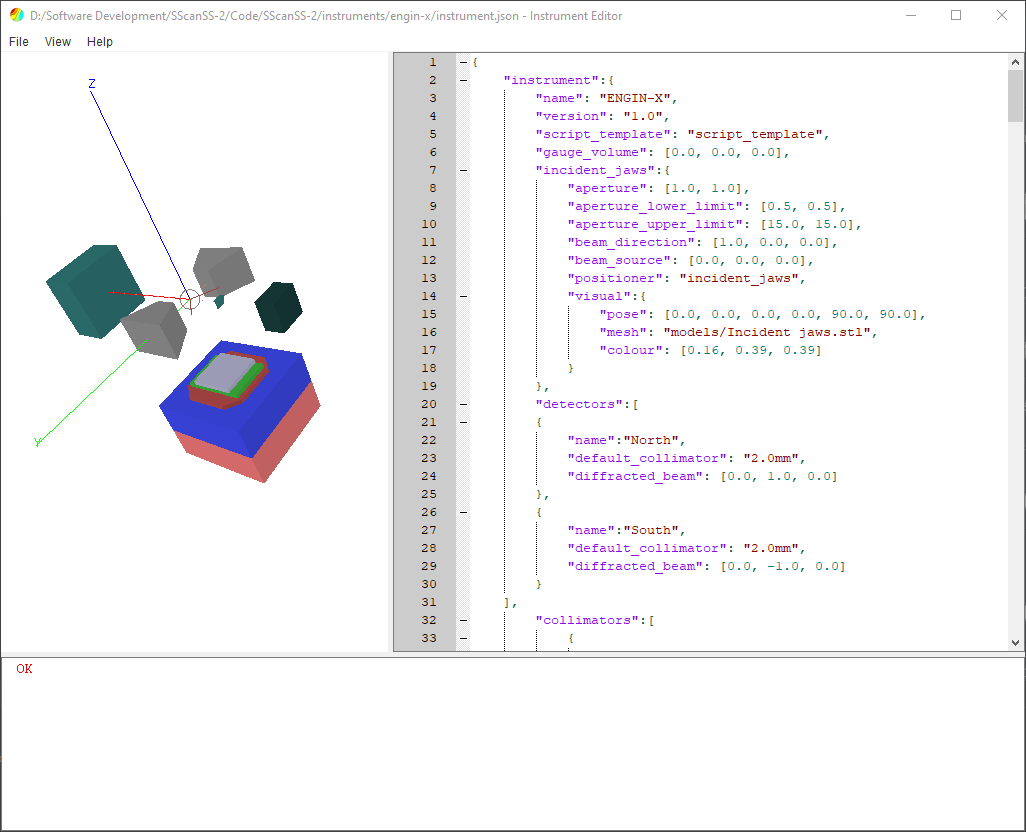
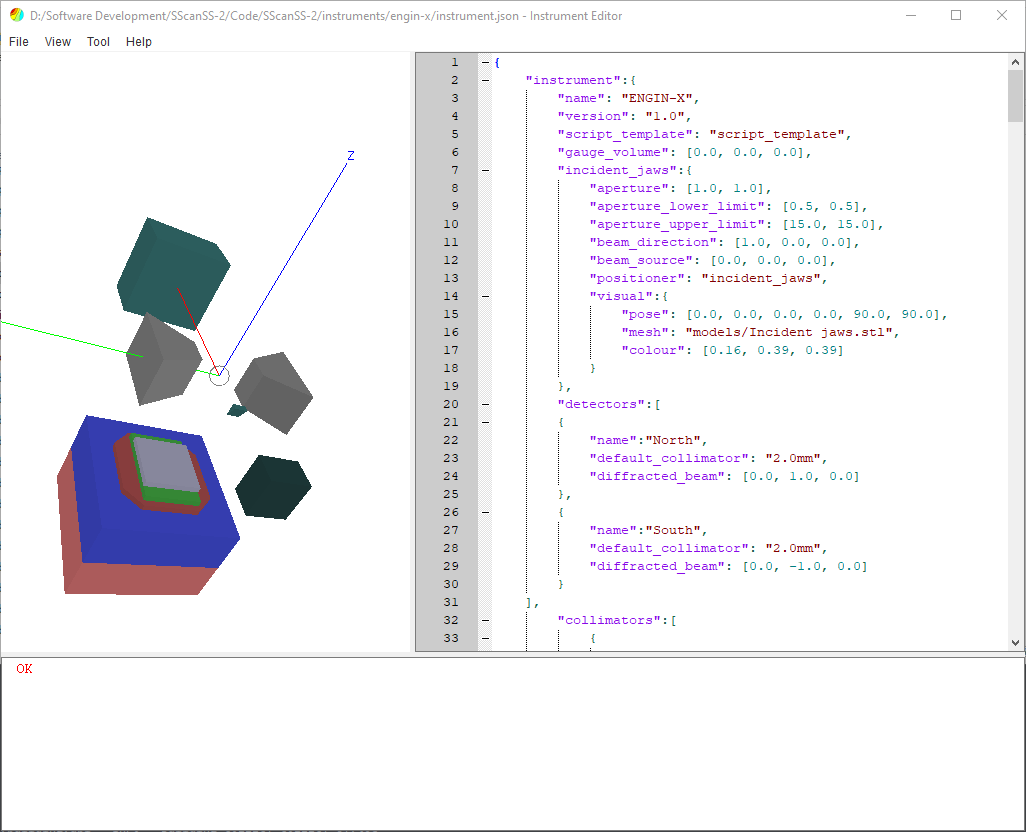
Adds DOI and updates version to 1.1.0, adds bugfix and updates docs

diff --git a/build_executable.py b/build_executable.py
@@ -52,7 +52,7 @@ def build_editor():
                 '--windowed', '--noconfirm', '--distpath', dist_path, '--clean', main_path]
 
     pyi_args.extend(['--exclude-module', 'coverage', '--exclude-module', 'jedi', '--exclude-module', 'tkinter',
-                     '--exclude-module', 'IPython', '--exclude-module', 'lib2to3', '--exclude-module', 'scipy',
+                     '--exclude-module', 'IPython', '--exclude-module', 'lib2to3',
                      '--exclude-module', 'PyQt5.QtDBus', '--exclude-module', 'PyQt5.QtDesigner',
                      '--exclude-module', 'matplotlib', '--exclude-module', 'hdf5',
                      '--exclude-module', 'PyQt5.QtBluetooth', '--exclude-module', 'PyQt5.QtNetwork',
@@ -71,6 +71,7 @@ def build_editor():
                      '--exclude-module', 'PyQt5.QtSql', '--exclude-module', 'PyQt5.QtSvg',
                      '--exclude-module', 'PyQt5.QtSerialPort', '--exclude-module', 'PyQt5.QtNetwork',
                      '--exclude-module', 'PyQt5.QtScript', '--exclude-module', 'PyQt5.QtXmlPatterns',
+                     '--hidden-import', 'scipy.spatial', '--hidden-import', 'scipy.optimize',
                      '--hidden-import', 'pkg_resources.py2_warn', '--hidden-import', 'PyQt5.QtPrintSupport',
                      '--hidden-import', 'PyQt5.QtOpenGL'])
 
@@ -109,7 +110,8 @@ def build_sscanss():
                      '--exclude-module', 'PyQt5.QtNetwork', '--exclude-module', 'PyQt5.QtPrintSupport',
                      '--exclude-module', 'PyQt5.QtScript', '--exclude-module', 'PyQt5.QtXmlPatterns',
                      '--hidden-import', 'scipy.spatial', '--hidden-import', 'scipy.optimize',
-                     '--hidden-import', 'pkg_resources.py2_warn', '--hidden-import', 'PyQt5.QtOpenGL'])
+                     '--hidden-import', 'pkg_resources.py2_warn', '--hidden-import', 'PyQt5.QtOpenGL',
+                     '--exclude-module', 'PyQt5.QtWinExtras'])
 
     if is_win:
         pyi_args.extend(['--icon',  os.path.join(INSTALLER_PATH, 'icons', 'logo.ico')])

diff --git a/tests/test_editor.py b/tests/test_editor.py
@@ -5,7 +5,6 @@ import numpy as np
 from PyQt5.QtWidgets import QApplication, QLineEdit, QComboBox, QDoubleSpinBox
 from sscanss.core.instrument.instrument import Instrument, PositioningStack, Detector, Script, Jaws
 from sscanss.core.instrument.robotics import Link, SerialManipulator
-from sscanss.core.scene import SceneManager
 from sscanss.editor.main import Window
 from sscanss.editor.widgets import PositionerWidget, JawsWidget, ScriptWidget, DetectorWidget
 from sscanss.editor.dialogs import CalibrationWidget, Controls
@@ -18,7 +17,8 @@ Collimator = namedtuple('Collimator', ['name'])
 class TestEditor(unittest.TestCase):
     app = QApplication([])
 
-    def setUp(self):
+    @mock.patch('sscanss.editor.main.SceneManager', autospec=True)
+    def setUp(self, scene_mock):
         self.view = Window()
         self.view.animate_instrument = TestSignal()
         self.view.filename = ''
@@ -37,8 +37,6 @@ class TestEditor(unittest.TestCase):
         self.view.instrument.jaws = Jaws('', [0, 0, 0], [1, 0, 0], [1.0, 1.0], [0.5, 0.5], [4.0, 4.0], None)
         self.view.instrument.detectors = {'East': Detector('East', [1, 0, 0])}
         self.view.instrument.script = Script('{{header}}\n{{#script}}\n{{position}}    {{mu_amps}}\n{{/script}}')
-
-        self.view.manager = mock.create_autospec(SceneManager)
 
     def testPositionerWidget(self):
         widget = PositionerWidget(self.view)

diff --git a/sscanss/app/dialogs/misc.py b/sscanss/app/dialogs/misc.py
@@ -50,8 +50,8 @@ class AboutDialog(QtWidgets.QDialog):
                 '<ol><li>J. A. James, J. R. Santisteban, L. Edwards and M. R. Daymond, “A virtual laboratory for '
                 'neutron and synchrotron strain scanning,” Physica B: Condensed Matter, vol. 350, no. 1-3, '
                 'p. 743–746, 2004.</li>'
-                '<li>Nneji Stephen. (2021). SScanSS 2—a redesigned strain scanning simulation software (Version 1.0.0).'
-                ' <a href="http://doi.org/10.5281/zenodo.4476755">http://doi.org/10.5281/zenodo.4476755</a>.</li>'
+                '<li>Nneji Stephen. (2021). SScanSS 2—a redesigned strain scanning simulation software (Version 1.1.0).'
+                ' <a href="http://doi.org/10.5281/zenodo.5266561">http://doi.org/10.5281/zenodo.5266561</a>.</li>'
                 '</ol>'
                 '<h3>Credit</h3>'
                 '<ul><li>Icons from FontAwesome</li></ul>'
@@ -95,7 +95,7 @@ class ProjectDialog(QtWidgets.QDialog):
         self.setLayout(self.main_layout)
         self.setAttribute(QtCore.Qt.WA_DeleteOnClose)
         self.setWindowFlags(QtCore.Qt.FramelessWindowHint | QtCore.Qt.Dialog)
-        self.setMinimumSize(640, 480)
+        self.setMinimumSize(640, 500)
         self.main_layout.setContentsMargins(1, 1, 1, 1)
 
         self.createImageHeader()

diff --git a/sscanss/editor/widgets.py b/sscanss/editor/widgets.py
@@ -135,7 +135,7 @@ class DetectorWidget(QtWidgets.QWidget):
         index = self.combobox.currentIndex()
         collimator = None if index == 0 else self.combobox.currentText()
         self.detector.current_collimator = collimator
-        self.parent.manager.updateInstrumentScene()
+        self.parent.scene.updateInstrumentScene()
         self.collimator_changed.emit(self.name, self.combobox.currentText())
 
     def createPositionerForm(self):
@@ -304,7 +304,7 @@ class JawsWidget(QtWidgets.QWidget):
 
     def changeApertureButtonClicked(self):
         self.instrument.jaws.aperture = [self.aperture_forms[0].value(), self.aperture_forms[1].value()]
-        self.parent.manager.updateInstrumentScene()
+        self.parent.scene.updateInstrumentScene()
 
 
 class PositionerWidget(QtWidgets.QWidget):
@@ -359,7 +359,7 @@ class PositionerWidget(QtWidgets.QWidget):
         if selected != self.instrument.positioning_stack.name:
             self.parent.instrument.loadPositioningStack(selected)
             self.createForms()
-            self.parent.manager.updateInstrumentScene()
+            self.parent.scene.updateInstrumentScene()
 
     def createForms(self):
         """Creates form inputs for main and auxiliary positioners in the positioning stack"""

diff --git a/sscanss/editor/main.py b/sscanss/editor/main.py
@@ -10,7 +10,7 @@ from sscanss.config import setup_logging, __editor_version__, __version__
 from sscanss.core.instrument import read_instrument_description, Sequence
 from sscanss.core.io import read_kinematic_calibration_file
 from sscanss.core.scene import OpenGLRenderer, SceneManager
-from sscanss.core.util import Directions
+from sscanss.core.util import Directions, Attributes
 from sscanss.editor.dialogs import CalibrationWidget, Controls
 from sscanss.editor.editor import Editor
 
@@ -75,6 +75,7 @@ class Window(QtWidgets.QMainWindow):
         self.gl_widget = OpenGLRenderer(self)
         self.gl_widget.custom_error_handler = self.sceneSizeErrorHandler
         self.scene = SceneManager(self, self.gl_widget, False)
+        self.scene.changeVisibility(Attributes.Beam, True)
         self.animate_instrument.connect(self.scene.animateInstrument)
 
         self.editor = Editor(self)

diff --git a/sscanss/__version.py b/sscanss/__version.py
@@ -1,2 +1,2 @@
-__version__ = '1.0.1'
-__editor_version__ = '1.0.0'
+__version__ = '1.1.0'
+__editor_version__ = '1.1.0'

diff --git a/docs/example.rst b/docs/example.rst
@@ -2,8 +2,8 @@
 Example Usage
 =============
 This tutorial illustrates the basic ideas behind the SScanSS 2 software. The files used in this tutorial can be
-downloaded from the SScanSS 2 |release| page on github. Download and extract **data.zip** from the release's **assets**.
-This tutorial uses the ENGIN-X instrument but the techniques shown should apply to other instruments.
+found in the *examples/simple* folder in the install directory. This tutorial uses the ENGIN-X instrument and the steps
+shown should apply to other instruments.
 
 We begin by creating a new project, click **File**, and then click **New Project**. You will see the new project dialog.
 Type in a project name, select ENGIN-X as the instrument and the click create.
@@ -42,8 +42,8 @@ You will see the sample model in the graphics window.
    :align: center
 
 3. Click **Insert > Measurement Vectors > Select Strain Component** the select stain component "Parallel to X Axis".
-Click **Add Measurement Vectors** and in the graphics window, you will see the blue line segments drawn from the measurement point along the
-X Axis.
+Click **Add Measurement Vectors** and in the graphics window, you will see the blue line segments drawn from the
+measurement point along the X Axis.
 
 .. image:: images/insert_vector.png
    :scale: 50
@@ -72,17 +72,13 @@ sample model, fiducials, measurement points and vector
    :align: center
 
 3. Start a new simulation by clicking **Simulation > Run Simulation** or the **F5** key. You will see the instrument
-move the sample into the appropriate position and orientation for each measurement and the result displayed in a
-dialog
+move the sample into the appropriate position and orientation for each measurement and the results displayed in
+simulation window
 
 .. image:: images/run_sim.png
    :scale: 50
    :alt: Run Simulation
    :align: center
 
-4. Finally the result script can be exported by clicking **File > Export > Script** and then click **Export** on the
-dialog.
-
-.. |release| raw:: html
-
-   <a href="https://github.com/ISISNeutronMuon/SScanSS-2/releases/" target="_blank">release</a>
+4. The script to perform the measurement on the real world instrument (if the sample was mount exactly the same) can be
+exported by clicking **File > Export > Script** and then click **Export** on the script dialog.

diff --git a/README.md b/README.md
@@ -3,7 +3,7 @@
 [![release](https://img.shields.io/github/release/ISISNeutronMuon/SScanSS-2.svg)](https://github.com/ISISNeutronMuon/SScanSS-2/releases)
 [![Actions Status](https://github.com/ISISNeutronMuon/SScanSS-2/workflows/Build/badge.svg)](https://github.com/ISISNeutronMuon/SScanSS-2/actions)
 [![Actions Status](https://github.com/ISISNeutronMuon/SScanSS-2/workflows/Docs/badge.svg)](https://github.com/ISISNeutronMuon/SScanSS-2/actions)
-[![DOI](https://zenodo.org/badge/DOI/10.5281/zenodo.4476755.svg)](https://doi.org/10.5281/zenodo.4476755)
+[![DOI](https://zenodo.org/badge/DOI/10.5281/zenodo.5266561.svg)](https://doi.org/10.5281/zenodo.5266561)
 
 SScanSS 2
 =========
@@ -76,5 +76,5 @@ Citing SScanSS 2
 1. J. A. James, J. R. Santisteban, L. Edwards and M. R. Daymond, “A virtual laboratory for neutron and synchrotron 
 strain scanning,” Physica B: Condensed Matter, vol. 350, no. 1-3, p. 743–746, 2004.
 
-2. Nneji Stephen. (2021). SScanSS 2—a redesigned strain scanning simulation software (Version 1.0.0).
-[http://doi.org/10.5281/zenodo.4476755](http://doi.org/10.5281/zenodo.4476755).
+2. Nneji Stephen. (2021). SScanSS 2—a redesigned strain scanning simulation software (Version 1.1.0).
+[http://doi.org/10.5281/zenodo.5266561](http://doi.org/10.5281/zenodo.5266561).
